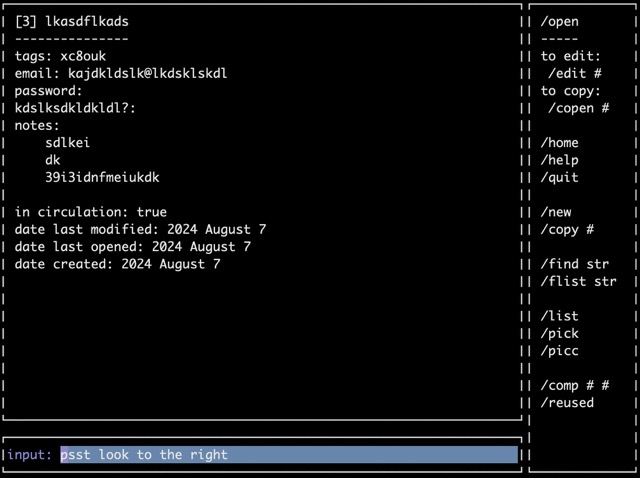
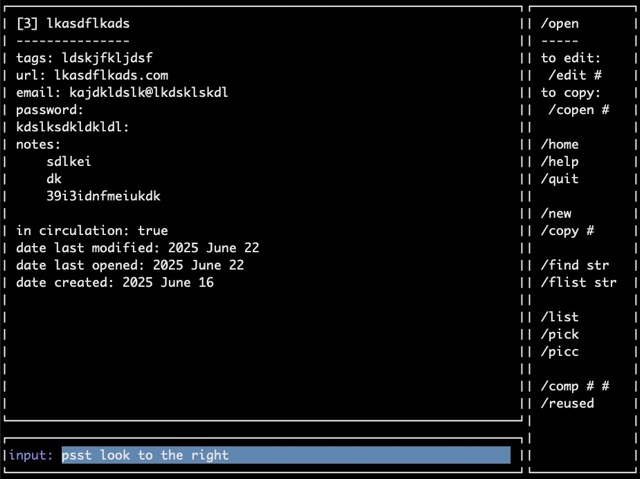
README updates, gofmt, new screenshots that include URL

Changed region(s): [[0.0, 0.0, 1.0, 0.8787], [0.0, 0.9079, 1.0, 0.9958]]

diff --git a/pass.go b/pass.go
@@ -51,7 +51,7 @@ type reusedPass struct {
 
 // The terminal width and height represent the difference from the size that
 // this was designed for (84x28). It is a global variable to avoid having to
-// pass it to the many functions that make text columns and widgets. 
+// pass it to the many functions that make text columns and widgets.
 var width = 0
 var height = 0
 
@@ -168,8 +168,8 @@ func main() {
 	editInfo := " /edit \n ----- \n to move: \n -tab \n -back tab \n -arrows keys\n -scroll\n\n to select: \n -return \n\n to leave: \n -esc key\n -a"
 
 	// Switches back to the edit list after editing a specific field. It remakes
-	// the list each time and uses indexSelected. It takes in a bool to know 
-	// whether or not to write to file the changes, as well as whether or not 
+	// the list each time and uses indexSelected. It takes in a bool to know
+	// whether or not to write to file the changes, as well as whether or not
 	// to update the last modified time.
 	switchToEditList := func(modified bool) {
 		if writeFileErr() {
@@ -211,7 +211,7 @@ func main() {
 		SetLabelColor(lavender)
 
 	// These are temporary and used when someone is making a new entry, a new
-	// field, or editing an existing entry. 
+	// field, or editing an existing entry.
 	tempEntry := encrypt.Entry{}
 	tempField := encrypt.Field{}
 
@@ -655,7 +655,7 @@ func main() {
 		for i := range e.Usernames {
 			u := &e.Usernames[i]
 			letter = increment(letter)
-			
+
 			editList.AddItem(u.DisplayName+":", u.Value, rune(letter), func() {
 				infoText.SetText(editFieldInfo)
 				blankEditFieldForm(u, &e.Usernames, i, true)
@@ -1311,7 +1311,7 @@ The slash / is option, so "open 0" or "o 0" works like "/open 0".
 			app.EnableMouse(false)
 			pages.SwitchToPage("copen")
 			// needs to be at the end, because writeErr is called from it
-			blankCopen(indexSelected) 
+			blankCopen(indexSelected)
 		case "edit":
 			tempEntry = encrypt.Entry{}
 			app.EnableMouse(false)
@@ -1502,6 +1502,7 @@ func grider(prim tview.Primitive) *tview.Grid {
 func newCharIterator() int {
 	return int('a')
 }
+
 // Returns an int the value of the next character in alphabet, or if the
 // input was 'z' then it will return 'a'.
 func increment(count int) int {
@@ -1516,7 +1517,7 @@ func increment(count int) int {
 // Input: index, slice of entries
 // Return: string formatted for /open of the entry at the index
 // Entries needs to be inputted an not just the single one so that we can modify
-// the last opened time and then write it to file. 
+// the last opened time and then write it to file.
 func blankOpen(i int, entries []encrypt.Entry) string {
 	e := entries[i]
 
@@ -1612,7 +1613,7 @@ func blankFind(entries []encrypt.Entry, str string) (string, string) {
 
 // Input: slice of entries and search string
 // Returns: slice of ints of all indexes with the search string in the
-// name, tags, or URLs. 
+// name, tags, or URLs.
 // This is used in /find and /flist
 func findIndexes(entries []encrypt.Entry, str string) []int {
 	indexes := []int{}
@@ -1633,10 +1634,10 @@ func findIndexes(entries []encrypt.Entry, str string) []int {
 	return indexes
 }
 
-// Input: slice of entries, slice of indices (ints) to display, showOld bool 
+// Input: slice of entries, slice of indices (ints) to display, showOld bool
 // which is true if entries not in circulation should be shown (in /find), false
 // otherwise (like in /list)
-// Returns: a string of the entries formatted into three columns. 
+// Returns: a string of the entries formatted into three columns.
 func listEntries(entries []encrypt.Entry, indexes []int, showOld bool) string {
 	printEntries := []encrypt.Entry{}
 
@@ -1690,18 +1691,18 @@ func listEntries(entries []encrypt.Entry, indexes []int, showOld bool) string {
 		}
 
 		// so it doesn't do it on the last one
-		if i != third-1 { 
+		if i != third-1 {
 			b.WriteString("\n")
 		}
 	}
-	return b.String() 
+	return b.String()
 }
 
 // Inputs: int index of entry and slice of entries. The reason that the slice
-// of entries is inputted and not a single entry is because the logic for the 
+// of entries is inputted and not a single entry is because the logic for the
 // indexes is non trivial and would be not great to repeat in order to input the
-// exact entry. 
-// Return: string of a single name formatted for a third of a column in /list or 
+// exact entry.
+// Return: string of a single name formatted for a third of a column in /list or
 // /find, where if the user is on the default terminal size it'll be exactly
 // " [0] twitterDEMO       "
 func indexName(index int, entries []encrypt.Entry) string {
@@ -1709,7 +1710,7 @@ func indexName(index int, entries []encrypt.Entry) string {
 
 	b.WriteString("[" + strconv.Itoa(index) + "] ")
 
-	if !entries[index].Circulate { 
+	if !entries[index].Circulate {
 		b.WriteString("(rem) ")
 	}
 
@@ -1717,7 +1718,7 @@ func indexName(index int, entries []encrypt.Entry) string {
 	len := len([]rune(b.String()))
 
 	// Trims it if it's over the character limit
-	if len > 21+(width/3) { 
+	if len > 21+(width/3) {
 		return b.String()[0:21+(width/3)] + " "
 	}
 
@@ -1725,10 +1726,10 @@ func indexName(index int, entries []encrypt.Entry) string {
 	return b.String()
 }
 
-// Input: two indexes, i1 and i2 that are the two entries whose passwords are 
+// Input: two indexes, i1 and i2 that are the two entries whose passwords are
 // being compared and the slice of all entries
-// Return: string to write to the text box for /comp i1 i2 -- with title and 
-// comparison information. 
+// Return: string to write to the text box for /comp i1 i2 -- with title and
+// comparison information.
 func blankComp(i1, i2 int, entries []encrypt.Entry) string {
 	e1 := entries[i1]
 	e2 := entries[i2]
@@ -1747,7 +1748,7 @@ func blankComp(i1, i2 int, entries []encrypt.Entry) string {
 
 // Input: two entries, e1 and e2
 // Return: string formatted to be sent to the /comp text box about any
-// passwords or security questions in common between the two entries. 
+// passwords or security questions in common between the two entries.
 func compPass(e1, e2 encrypt.Entry) string {
 	// reusedPass is a struct
 	compMap := make(map[string][]reusedPass)
@@ -1856,7 +1857,7 @@ func reusedAll(entries []encrypt.Entry) string {
 
 	// gets rid of the last \n\n and return
 	printStr := b.String()
-	printStr = printStr[:len([]rune(printStr))-2] 
+	printStr = printStr[:len([]rune(printStr))-2]
 	return printStr
 }
 
@@ -1883,7 +1884,7 @@ func testAllFields(entries []encrypt.Entry) string {
 }
 
 // Updates the global variables width, height that store the difference from
-// the terminal size of the user and the terminal size designed for. 
+// the terminal size of the user and the terminal size designed for.
 // If there is an error in getting the terminal size, then it is assumed that
 // the user has the same size as original terminal (84x28).
 func updateTerminalSize() {
@@ -1900,7 +1901,7 @@ func updateTerminalSize() {
 
 	// Through experimenting, if the width is below 75 then you cannot see and
 	// access all the buttons in /new. The height should be at least 17 to see
-	// the list of fields already added in /new. 
+	// the list of fields already added in /new.
 	if termWidth < 75 || termHeight < 17 {
 		fmt.Println("In order to see all elements of the password manager, please set your terminal to a minimum height of 17 characters and a minimum width of 75 characters.")
 		fmt.Println("The ideal dimensions that this was designed for is a height of 28 and a width of 84.")

diff --git a/encrypt/encrypt.go b/encrypt/encrypt.go
@@ -3,9 +3,9 @@
 	Copyright (c) 2022 Kezia Sharnoff
 
 	encrypt.go
-	Encrypts the slice of bytes, create keys, and write to files. 
+	Encrypts the slice of bytes, create keys, and write to files.
 	The structs for entries are defined here so that they can be imported
-	across different files and used in writing to files. 
+	across different files and used in writing to files.
 */
 
 package encrypt
@@ -117,14 +117,14 @@ func Decrypt(encrypted []byte, ciphBlock cipher.Block) []byte {
 	return decrypt
 }
 
-// Input: the decrypted entries slice and cipher block made from the master 
-// password. 
+// Input: the decrypted entries slice and cipher block made from the master
+// password.
 // Return: an error string, empty "" if no error
 func WriteToFile(entries []Entry, ciphBlock cipher.Block) string {
 	output, marshErr := yaml.Marshal(entries)
 
 	if marshErr != nil {
-		return " Error in yaml.Marshal\n\n " +  marshErr.Error()
+		return " Error in yaml.Marshal\n\n " + marshErr.Error()
 	}
 
 	encryptedOutput := Encrypt(output, ciphBlock)
@@ -137,7 +137,7 @@ func WriteToFile(entries []Entry, ciphBlock cipher.Block) string {
 	}
 
 	// Only will do this if the previous writing to a file worked, keeps it safe.
-	os.Rename(FileName+".tmp", FileName) 
+	os.Rename(FileName+".tmp", FileName)
 
 	return ""
 }
@@ -148,10 +148,10 @@ func ReadFromFile(entries *[]Entry, ciphBlock cipher.Block) string {
 	input, inputErr := os.ReadFile(FileName)
 
 	if inputErr != nil {
-		return " Error in os.ReadFile\n Make sure that a file named " + 
-				FileName + 
-				" exists.\n If there isn't one, run createEncr.go\n\n " + 
-				inputErr.Error()
+		return " Error in os.ReadFile\n Make sure that a file named " +
+			FileName +
+			" exists.\n If there isn't one, run createEncr.go\n\n " +
+			inputErr.Error()
 	}
 
 	decryptedInput := Decrypt(input, ciphBlock)
@@ -159,7 +159,7 @@ func ReadFromFile(entries *[]Entry, ciphBlock cipher.Block) string {
 
 	if unmarshErr != nil {
 		return " Error in yaml.Unmarshal\n Make sure you write the correct password.\n\n " +
-				unmarshErr.Error()
+			unmarshErr.Error()
 	}
 	return ""
 }

diff --git a/changeKey.go b/changeKey.go
@@ -7,9 +7,9 @@
 	(or with different key generation parameters)
 
 	If you would like to change the key generation parameters, set the ones
-	that you want to change to in KeyGeneration() in encrypt/encrypt.go and 
-	have the keyGeneration() function in this file be the old parameters. 
-	Also, set keyGenChange to true in this file. 
+	that you want to change to in KeyGeneration() in encrypt/encrypt.go and
+	have the keyGeneration() function in this file be the old parameters.
+	Also, set keyGenChange to true in this file.
 */
 
 package main
@@ -84,7 +84,7 @@ func main() {
 	}
 
 	readErr := encrypt.ReadFromFile(&entries, ciphBlockOld)
-	
+
 	if readErr != "" {
 		printAndExit(readErr)
 	}
@@ -133,7 +133,7 @@ func keyGeneration(password string) (cipher.Block, string) {
 }
 
 // Input: error string to print.
-// Then exits with status code 1. 
+// Then exits with status code 1.
 func printAndExit(error string) {
 	fmt.Println(error)
 	os.Exit(1)

diff --git a/README.md b/README.md
@@ -1,16 +1,15 @@
 # pass
 
-## what is this project?
 This is a password manager run entirely in the terminal.
 
-The password manager stores an encrypted list of entries -- where each entry can store its name, tags, and unlimited URLs, usernames, passwords, security questions, or notes. You can search the names, tags, and URLs. You can view and easily copy to your clipboard any field of an entry. You can see a list of entries that have reused passwords. 
+The password manager stores an encrypted list of entries -- where each entry can store its name and unlimited tags, URLs, usernames, passwords, security questions, and notes. You can search the names, tags, and URLs. You can view and easily copy to your clipboard any field of an entry. You can see a list of entries that have reused passwords. 
 
 ## starting for the first time
-- Download the zip of the latest release or run `git clone https://github.com/ksharnoff/pass.git`.
-- Unzip the zip and then run `go mod tidy` to install all necessary dependencies. 
+- Download the the latest release or use git: `git clone https://github.com/ksharnoff/pass.git`.
+- Run `go mod tidy` to install all necessary dependencies. 
 - Use `createEncr.go` to create and encrypt your file of passwords the first time, `go run createEncr.go`. If you forget your password, you cannot decrypt the file later. 
-	- If you would like to change your password or the key generation parameters in the future, use `changeKey.go` by `go run changeKey.go`. You will have to edit `changeKey.go` and `encrypt/encrypt.go` to change the key parameters
-- You can successfully run the password manager now, `go run pass.go`. I recommend compiling it by `go build pass.go` to run it quickly as an executable, `./pass`.
+	- If you would like to change your password or the key generation parameters in the future, use `changeKey.go` by `go run changeKey.go`. You will have to edit `changeKey.go` and `encrypt/encrypt.go` to change the key generation parameters.
+- Now, run the password manager now with `go run pass.go`. I recommend compiling it by `go build pass.go` to run it quickly as an executable, `./pass`.
 
 The encrypted passwords will be stored in a file named `pass.yaml` in the `pass` directory. 
 
@@ -20,68 +19,67 @@ I used the TUI [`tview`](https://github.com/rivo/tview). I used four types of pr
 The password manager will scale to work on any sized terminal, with any font. I recommend using a monospaced font, for example, `Monaco`.
 
 ## encryption and file writing
-All of the entries are [marshaled](https://pkg.go.dev/gopkg.in/yaml.v3#Marshal) as if they were going to be written to a YAML file. Instead, that list of byte is entirely encrypted before being written to a file. Then, after reading from the file, the list of bytes is decrypted and turned into the list of entries. The password manager password (the master password) must be inputted before viewing any fields. The program verifies that the correct password was inputted if it can successfully unmarshal the data into a list of entries; the master password is never stored.
+All of the entries are [marshaled](https://pkg.go.dev/gopkg.in/yaml.v3#Marshal) as if they were going to be written to a YAML file. Instead, that list of bytes is entirely encrypted before being written to a file. Then, after reading from the file, the list of bytes is decrypted and turned into the list of entries. The password manager password (the master password) must be inputted before viewing any fields. The program verifies that the correct password was inputted if it can successfully unmarshal the data into a list of entries; the master password is never stored.
 
-Argon2 is used to make a key and the entries are encrypted with AES-256.
+Argon2 is used to make the key and the entries are encrypted with AES-256.
 
 This password manager is unsuitable for cloud computing or a shared computer as the decrypted information is stored in the memory. I do not believe this to be a significant risk on a single user computer. 
 
 The encryption is done in `encrypt.go` which must be in a directory called `encrypt` inside the greater `pass` directory as `encrypt.go` is used for several other files. 
 
 ## commands
-This section is about all of the actions that can be done with the password manager. `#` is written to mean any number and `str` is written to mean any set of characters. 
-All of the commands are called through the command line at the bottom. The terminal in these photos is 84x28 with the font Monaco, 18pt. 
+All of the commands are called through the input field at the bottom. `#` means any number and `str` is written to mean any set of characters. The terminal in these photos is 84x28 with the font Monaco, 18pt. 
 
 ### `/open #`
-![Picture of /open, opening entry 3, titled lkasdflkads. The big box to the left has each field of entry 3 written, tags, username, password, security question, notes, in circulation, date modified, date opened, and date created. The column box on the right listing all of the commands has separated out /edit and /copen to the top. There is a blue input line at the bottom.](https://github.com/ksharnoff/pass/blob/main/examples/open.jpeg)
+![Screenshot of /open, opening entry 3, titled lkasdflkads. The big box to the left has each field of entry 3 written, tags, username, password, security question, notes, in circulation, date modified, date opened, and date created. The column box on the right listing all of the commands has separated out /edit and /copen to the top. There is a blue input line at the bottom.](https://github.com/ksharnoff/pass/blob/main/examples/open.jpeg)
 
-`/open` is used to view an entry. It will include time information that is known. Passwords and security questions have their values printed in black text. Therefore, one can highlight it to see the values. 
+`/open` is used to view an entry. It will include time information if it is known. Passwords and security questions have their values printed in black text, one can highlight it to see the values. 
 
 ### `/copen #`
-![Picture of /copen, opening entry 3. The big box to the left is a numbered list (with letters of the alphabet instead of numbers). Each element of the list is a different field of entry 3, its name, tags, username, password, security question, notes, in circulation, date modified, date opened, and date created. The column box on the right listing all of the commands has separated out /edit and /open to the top. There is a blue input line at the bottom.](https://github.com/ksharnoff/pass/blob/main/examples/copen.jpeg)
+![Screenshot of /copen, opening entry 3. The big box to the left is a numbered list (with letters of the alphabet instead of numbers). Each element of the list is a different field of entry 3, its name, tags, username, password, security question, notes, in circulation, date modified, date opened, and date created. The column box on the right listing all of the commands has separated out /edit and /open to the top. There is a blue input line at the bottom.](https://github.com/ksharnoff/pass/blob/main/examples/copen.jpeg)
 
-`/copen` is also used to view an entry. It is a list that is used to copy the data to the clipboard. With `/copen`, you select one of the fields and it copies itself to your clipboard.
+`/copen` is also used to view an entry, you select one of the fields and it copies itself to your clipboard.
 
 ### `/new`
-![Picture of /new filled out with information.There is an input line for a name, here it is lkasdflkads. There is an input line for tags, here is xc8ouk. The box circulated is ticked. There are buttons titled new field, save entry, quit, notes, and edit field. Under this is a numerated list (with letters) of the email, password, and security question that were already filled in. The right box has instructions for how to move around /new and what you must finish in order to save an entry.](https://github.com/ksharnoff/pass/blob/main/examples/new.jpeg)
+![Screenshot of /new filled out with information.There is an input line for a name, here it is lkasdflkads. There is an input line for tags, here is xc8ouk. The box circulated is ticked. There are buttons titled new field, save entry, quit, notes, and edit field. Under this is a numerated list (with letters) of the email, password, and security question that were already filled in. The right box has instructions for how to move around /new and what you must finish in order to save an entry.](https://github.com/ksharnoff/pass/blob/main/examples/new.jpeg)
 
-`\new` has a form at the top with two input fields for the entry name and its tags. Then there are buttons for making a new field (username, password, or security question), saving, quitting, deleting, and making notes.
+`\new` has a form at the top with two input fields for the entry name and its tags. Then there are buttons for making a new field (URL, username, password, or security question), saving, quitting, deleting, and making notes.
 You must name the entry in order to save it. 
 
-There is no limit to the number of usernames, passwords, or security questions you can make. They are all encrypted the same, except the values for passwords and security questions are blotted out when viewed. 
+There is no limit to the number of URLS, usernames, passwords, or security questions you can make. They are all encrypted the same, the values for passwords and security questions are blotted out when viewed. 
 
 ### `/copy #`
 `/copy` is the same as `/new` except fields are already filled in with the information of entry #. 
 
 ### `/edit #`
-![Picture of /edit, it looks much like /copen but without the dates listed. Instead, once you select one of the listed fields you can edit it. There is a numerated list showing its name, tags, username, password, security question, notes, in circulation, date modified, date opened, and date created. The column box to the right has instructions for how to move around /edit. There is a blue input line at the bottom.](https://github.com/ksharnoff/pass/blob/main/examples/edit.jpeg)
+![Screenshot of /edit, it looks much like /copen but without the dates listed. Instead, once you select one of the listed fields you can edit it. There is a numerated list showing its name, tags, username, password, security question, notes, in circulation, date modified, date opened, and date created. The column box to the right has instructions for how to move around /edit. There is a blue input line at the bottom.](https://github.com/ksharnoff/pass/blob/main/examples/edit.jpeg)
 
-`/edit` is used for editing an entry already made. It is a list with each field of the entry. You can select a field and then edit that specific one. 
+`/edit` is used for editing an entry already made. It is a list with each field of the entry. You can select a field to edit, delete, or add more fields. 
 
 ### `/find str`
-![Picture of /find ak. Listed in the left side box are six entries, their numbers and indices. Some of the names do not have the letters “ak”, therefore those entries must have it in the tags. The column box on the right listing all of the commands has separated out /open, /copen, and /edit to the top. There is the blue input line at the bottom.](https://github.com/ksharnoff/pass/blob/main/examples/find%20str.jpeg)
+![Screenshot of /find ak. Listed in the left side box are six entries, their numbers and indices. Some of the names do not have the letters “ak”, therefore those entries must have it in the tags. The column box on the right listing all of the commands has separated out /open, /copen, and /edit to the top. There is the blue input line at the bottom.](https://github.com/ksharnoff/pass/blob/main/examples/find%20str.jpeg)
 
-`/find` is used to search the name and tags of all the entries for a string. It then returns the list of entries that contain that string. The entries are printed out following the same format as `/list`. The example above is searching for “ak”.
+`/find` is used to search the name, tags, and URLs of all the entries for an inputted string. It then returns the list of entries that contain that string. The entries are printed out following the same format as `/list`. The example above is searching for “ak”.
 
 ### `/list`
-![Picture of /list. Listed in the left box are all of the entries, formatted into three columns. In this screenshot, there are only enough entries for one and a half columns. Each entry number and entry name is listed. Not all of the numbers are there - look at information about circulation. The column box on the right listing all of the commands has separated out /open, /copen, and /edit to the top. There is the blue input line at the bottom.](https://github.com/ksharnoff/pass/blob/main/examples/list.jpeg)
+![Screenshot of /list. Listed in the left box are all of the entries, formatted into three columns. In this screenshot, there are only enough entries for one and a half columns. Each entry number and entry name is listed. Not all of the numbers are there - look at information about circulation. The column box on the right listing all of the commands has separated out /open, /copen, and /edit to the top. There is the blue input line at the bottom.](https://github.com/ksharnoff/pass/blob/main/examples/list.jpeg)
 
-`/list` is used to list all of the entries. /list is useful to see the index number of an entry to open it. `/list` prints the entries in three columns of a fixed size, therefore the entry name can get cut off. This is done with a single text box, using some string and math trickery. 
+`/list` is used to list all of the entries. /list is useful to see the index number of an entry to open it. `/list` prints the entries in three columns of a fixed size, using some string and math trickery. 
 
 ### `/pick` and `/picc`
-![Picture of /pick. In a numerated list of letters, each entry, its number, and its tags are listed. If you click on any of the elements, it takes you to /open to view that entry. The column box to the right has instructions for how to move around /pick. There is a blue input line at the bottom.](https://github.com/ksharnoff/pass/blob/main/examples/pick.jpeg)
+![Screenshot of /pick. In a numerated list of letters, each entry, its number, and its tags are listed. If you click on any of the elements, it takes you to /open to view that entry. The column box to the right has instructions for how to move around /pick. There is a blue input line at the bottom.](https://github.com/ksharnoff/pass/blob/main/examples/pick.jpeg)
 
 `/pick` and `/picc` look mostly identical. They are lists of all the entries, like `/list`, except you can select and open an entry. `/pick` will `/open` an entry while `/picc` will `/copen` an entry.
 
 ### `/comp # #`
-![Picture of /comp 2 24. In the big square left text box, it says the entries’ indices and names, [2] akjsdf;k and [24] cvbnncbbcveqwbcnew. Under that, it says that akjsdf;k’s security question 0 = cvbnncbbcveqwbcnew’s password. There is a column box on the right listing all of the commands and a blue input line at the bottom.](https://github.com/ksharnoff/pass/blob/main/examples/comp.jpeg)
+![Screenshot of /comp 2 24. In the big square left text box, it says the entries’ indices and names, [2] akjsdf;k and [24] cvbnncbbcveqwbcnew. Under that, it says that akjsdf;k’s security question 0 = cvbnncbbcveqwbcnew’s password. There is a column box on the right listing all of the commands and a blue input line at the bottom.](https://github.com/ksharnoff/pass/blob/main/examples/comp.jpeg)
 
 `/comp # #` looks for duplicate passwords or answers to security questions between two entries.
 
 ### `/reused`
-![Picture of /reused. In the big text box on the left, it has listed out blahg, then two entries and their indices. After that is aghikl and then two entries and their indices. After each entry is what field uses it, in these examples it is password or security question 0 or 1. There is a column box on the right listing all of the commands and a blue input line at the bottom.](https://github.com/ksharnoff/pass/blob/main/examples/reused.jpeg )
+![Screenshot of /reused. In the big text box on the left, it has listed out blahg, then two entries and their indices. After that is aghikl and then two entries and their indices. After each entry is what field uses it, in these examples it is password or security question 0 or 1. There is a column box on the right listing all of the commands and a blue input line at the bottom.](https://github.com/ksharnoff/pass/blob/main/examples/reused.jpeg )
 
-`/reused` shows any duplicate passwords or answers to security questions from all of the entries. The passwords (or answers) are printed in dark gray, but one can use their mouse to select the text to read it more clearly if needed.
+`/reused` shows any duplicate passwords or answers to security questions from all of the entries. 
 
 ## miscellaneous info
 
@@ -93,8 +91,8 @@ For ease of copying, there is `/copen #`, where you select one of the fields fro
 ### time values
 Times are saved for the date created, date last modified, and the date last opened. 
 Date last modified is only updated if any edits are made and saved in `/edit`.
-Date last opened is modified if the entry is opened by `/open #` or  `/copen #`. 
-These dates also work as security in case of irregularities.
+Date last opened is modified if the entry is opened by `/open #` or `/copen #`. 
+These dates also work as a security measure in case there are irregularities. 
 
 ### circulation
 In each entry there is a boolean named `Circulate` which determines if the entry shows up in `/list`, `/pick`, and `/picc`. All commands that work on entries still work (`/edit`, `/open`, `/copy`, etc.). This can be used to reduce clutter of old entries without changing the entry numbers of later ones.
